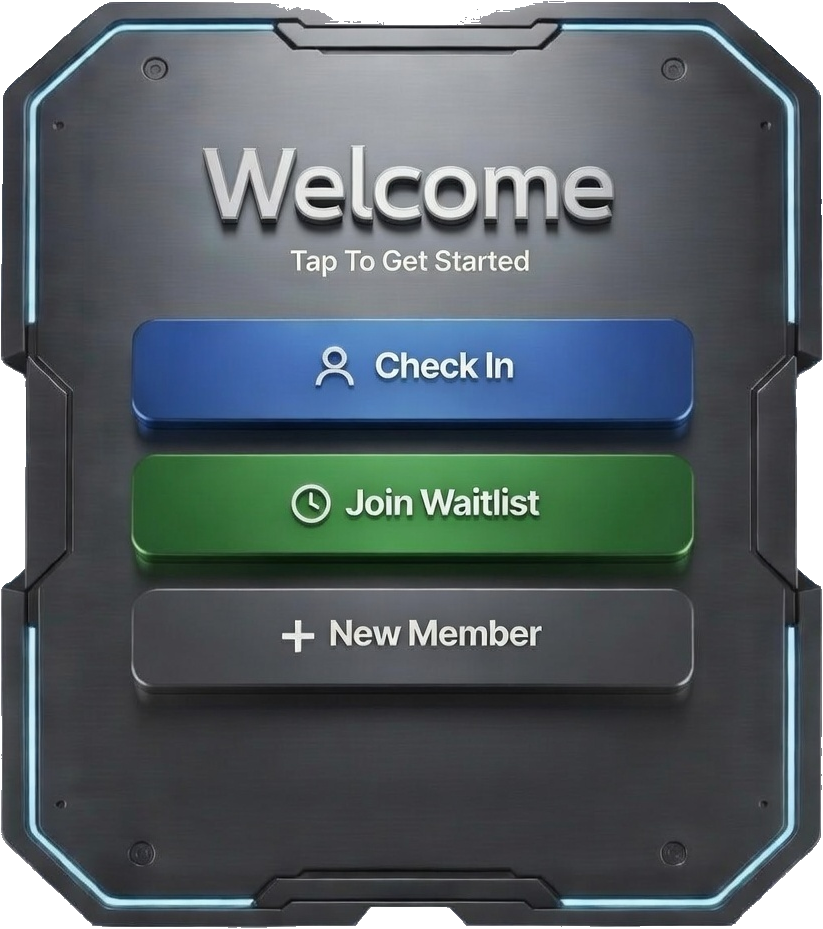
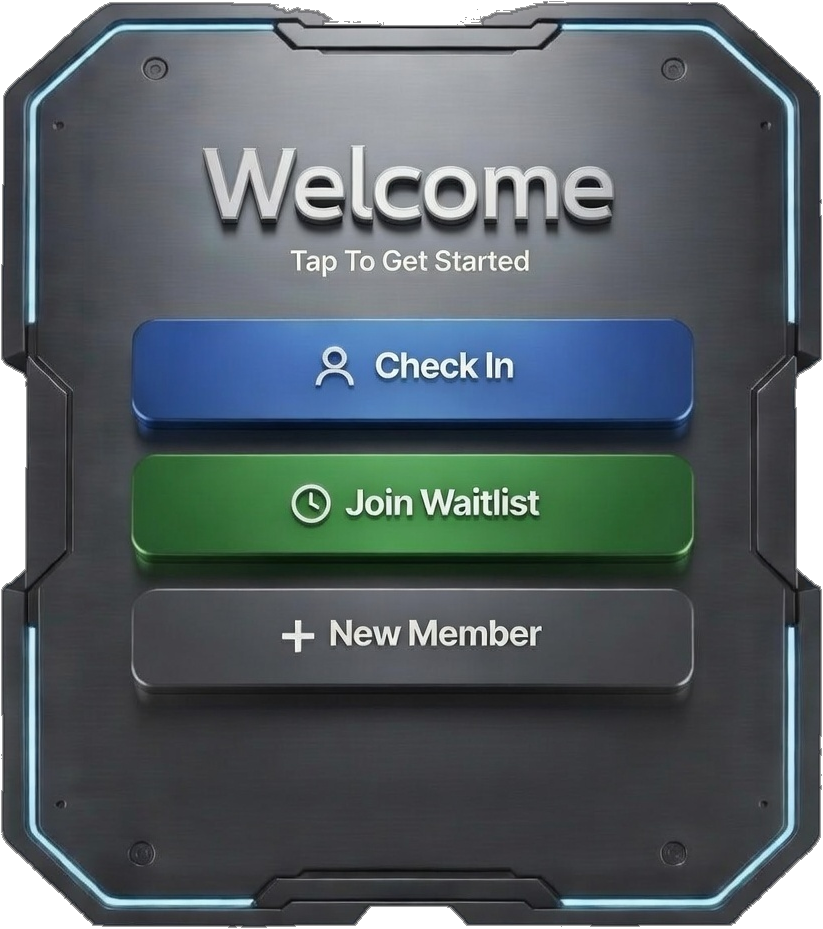
fix: kiosk welcome image edge cleanup - remove white fringe artifacts
- Applied 3-layer edge darkening (15%/50%/80% brightness reduction)
- Added graduated alpha anti-aliasing on outer 2 pixel rings
- Cache bust v=7 -> v=8

Changed region(s): [[0.3645, 0.0, 0.3949, 0.0312], [0.0, 0.3746, 0.0304, 0.4058]]

diff --git a/pages/hub/club-arena/lobby.js b/pages/hub/club-arena/lobby.js
@@ -323,6 +323,9 @@ export default function ClubLobby() {
                                 <button style={styles.actionBtn} onClick={() => router.push(`/hub/club-arena/hand-histories?club=${club.club_id}`)}>
                                     Hands
                                 </button>
+                                <button style={styles.actionBtn} onClick={() => router.push(`/hub/club-arena/marketplace?club=${club.club_id}`)}>
+                                    Marketplace
+                                </button>
                             </div>
                         </>
                     )}
@@ -456,7 +459,7 @@ export default function ClubLobby() {
                     </div>
                 )}
 
-                <ClubArenaBottomNav clubId={club?.club_id || clubIdParam} activePage="lobby" />
+                <ClubArenaBottomNav clubId={club?.club_id || clubIdParam} activePage="messages" />
 
                 {/* Hamburger Menu */}
                 <HamburgerMenu
@@ -719,7 +722,7 @@ const styles = {
     },
     quickActions: {
         display: 'grid',
-        gridTemplateColumns: 'repeat(3, 1fr)',
+        gridTemplateColumns: 'repeat(4, 1fr)',
         gap: '10px',
     },
     actionBtn: {

diff --git a/pages/hub/club-arena/hand-histories.js b/pages/hub/club-arena/hand-histories.js
@@ -433,7 +433,7 @@ export default function HandHistories() {
                     )}
                 </div>
 
-                <ClubArenaBottomNav clubId={clubIdParam} activePage="hand-histories" />
+                <ClubArenaBottomNav clubId={clubIdParam} activePage="data" />
             </div>
 
             {/* ═══════════════════════════════════════════════════════════════════════

diff --git a/pages/hub/club-arena/marketplace.js b/pages/hub/club-arena/marketplace.js
@@ -416,7 +416,7 @@ export default function Marketplace() {
                     )}
                 </div>
 
-                <ClubArenaBottomNav clubId={clubIdParam} activePage="marketplace" />
+                <ClubArenaBottomNav clubId={clubIdParam} activePage="cashier" />
             </div>
 
             {/* ═══════════════════════════════════════════════════════════════════════

diff --git a/pages/commander/kiosk.js b/pages/commander/kiosk.js
@@ -441,7 +441,7 @@ export default function MembershipKiosk() {
             <div style={{ position: 'relative', maxWidth: '90%', maxHeight: '90%', display: 'flex' }}>
               {/* Background Image — PNG with transparent background */}
               <img
-                src="/images/commander/kiosk-welcome.png?v=7"
+                src="/images/commander/kiosk-welcome.png?v=8"
                 alt="Welcome Kiosk"
                 style={{
                   width: '100%',

diff --git a/pages/hub/club-arena/leaderboard.js b/pages/hub/club-arena/leaderboard.js
@@ -454,7 +454,7 @@ export default function Leaderboard() {
                     )}
                 </div>
 
-                <ClubArenaBottomNav clubId={clubIdParam} activePage="leaderboard" />
+                <ClubArenaBottomNav clubId={clubIdParam} activePage="data" />
             </div>
         </>
     );
